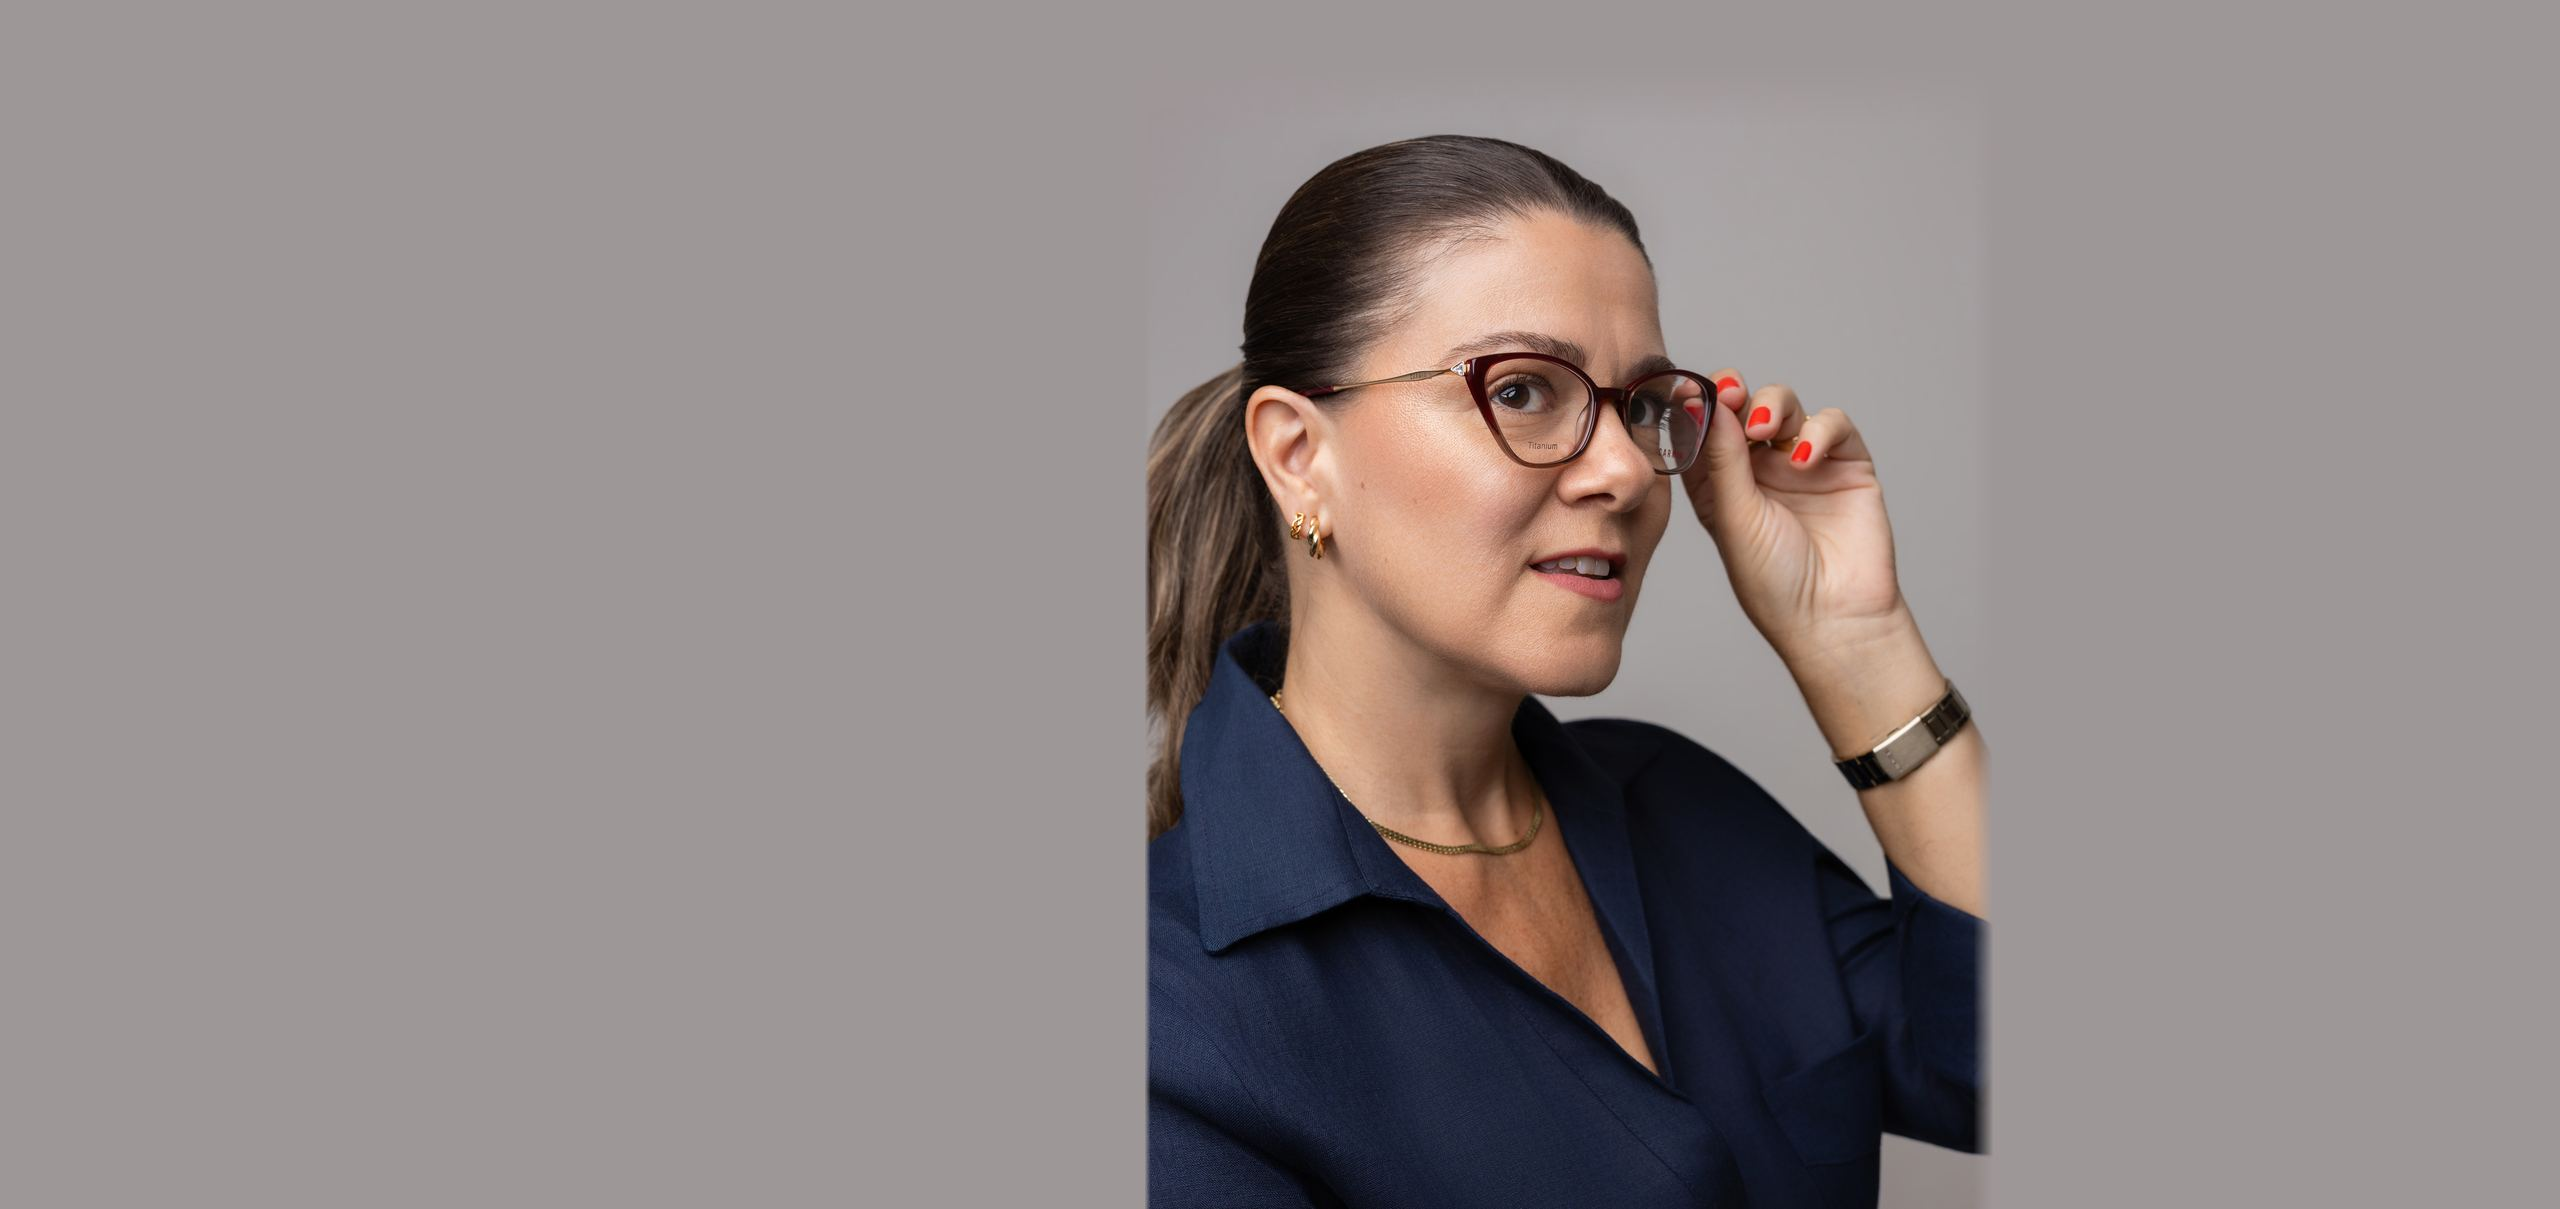
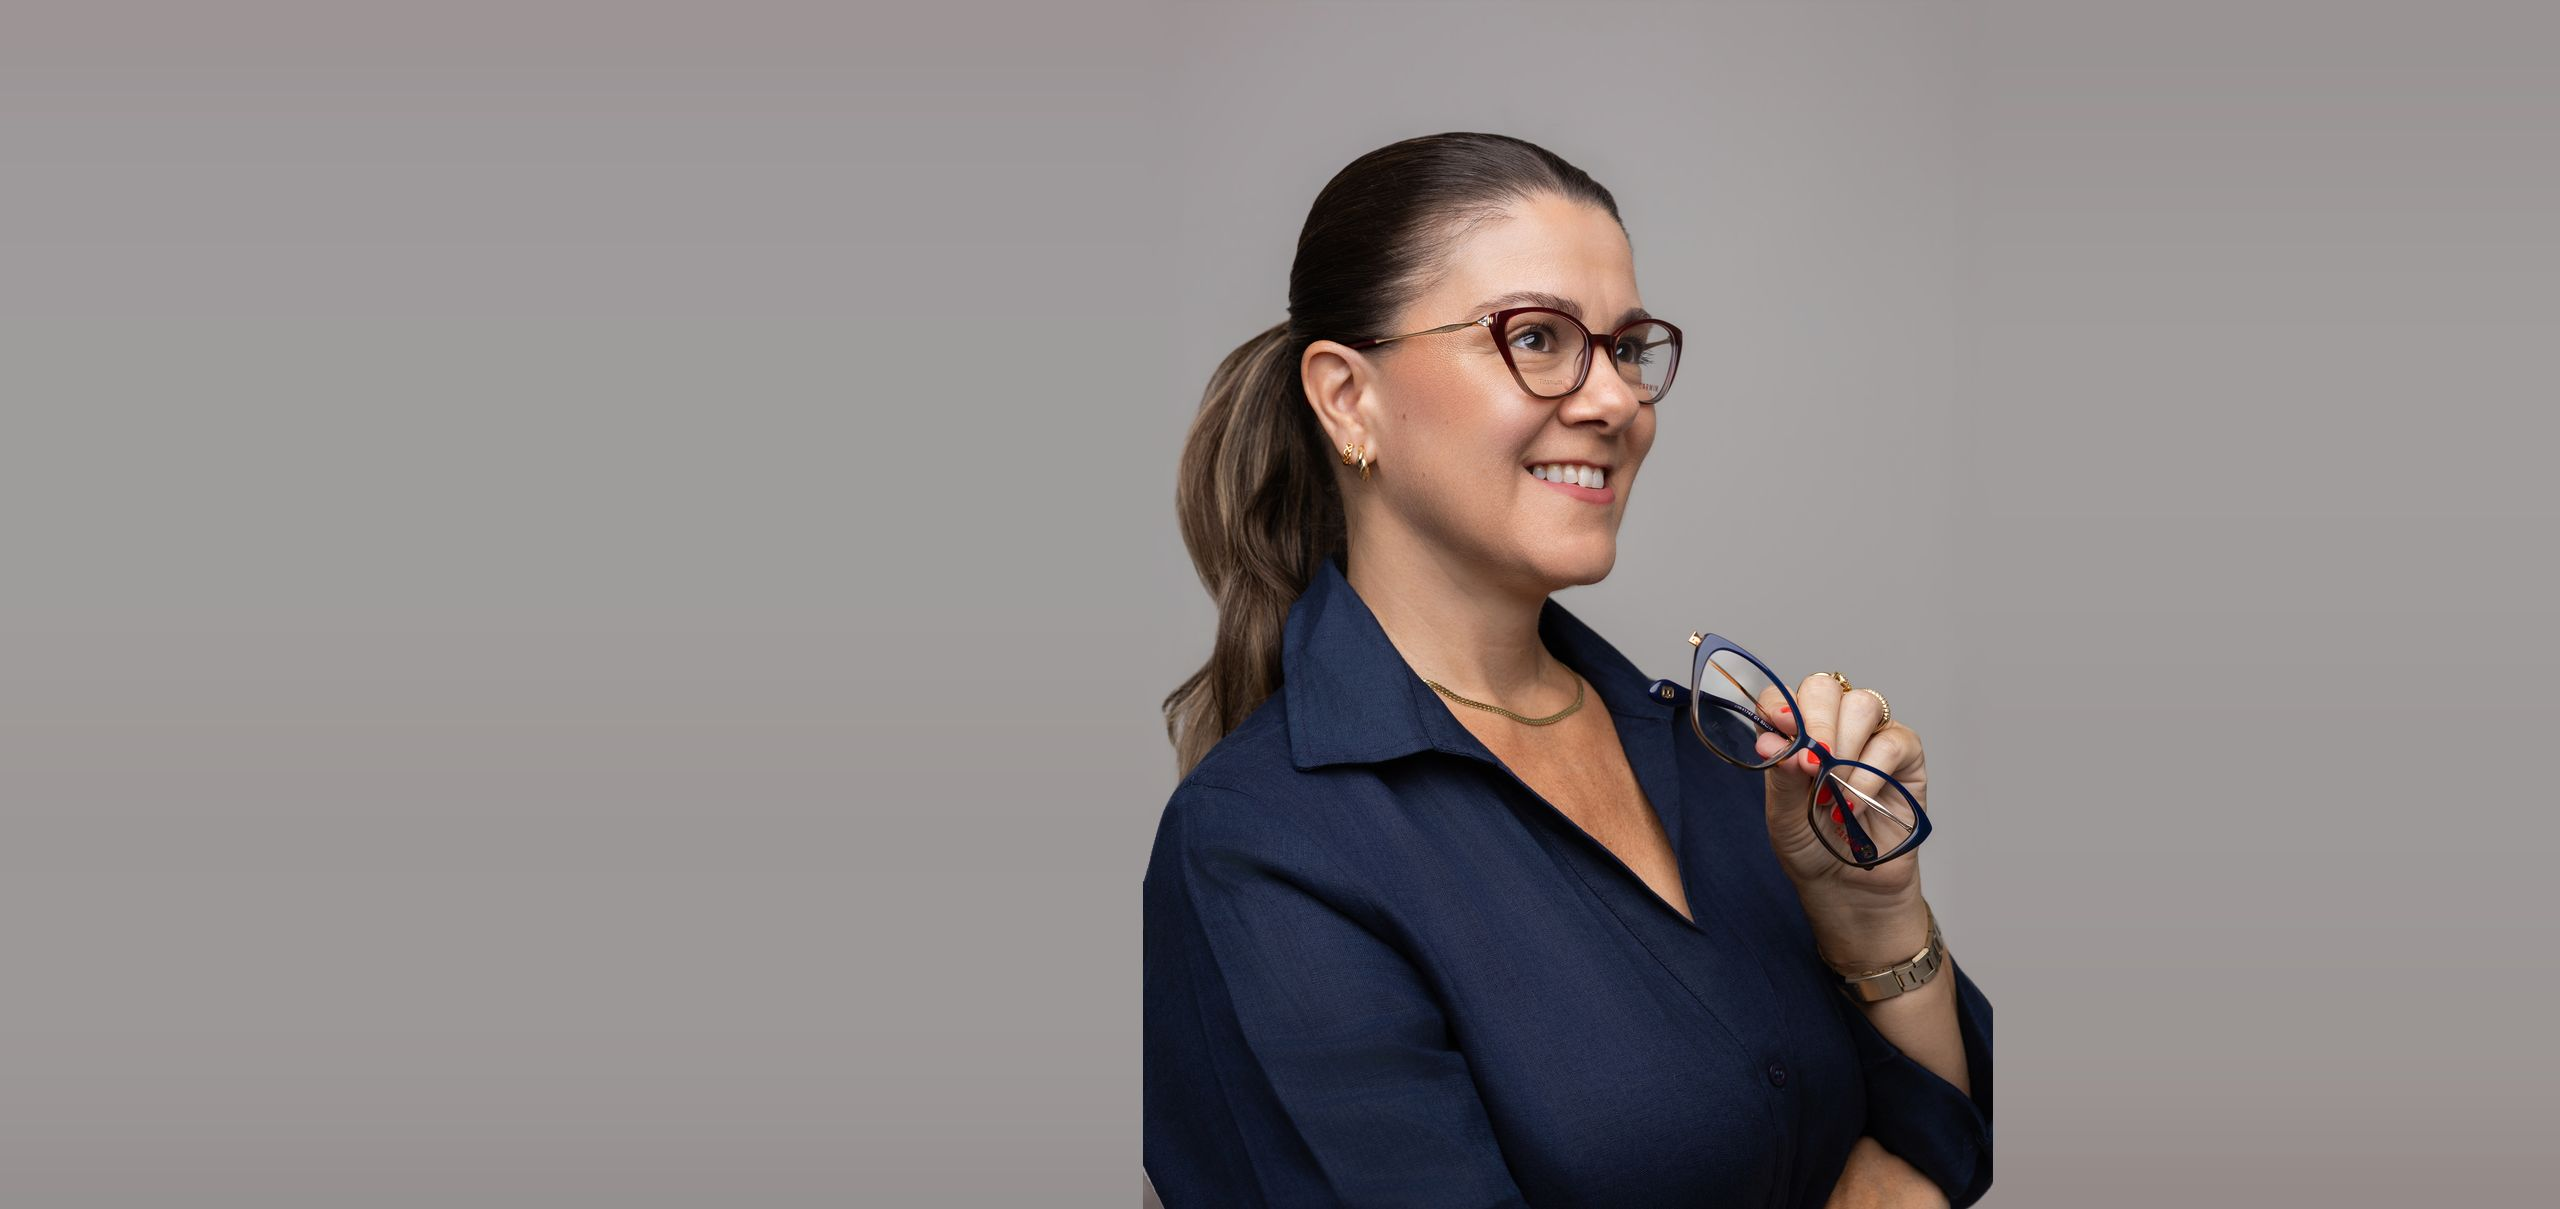
fix(frontend): troca a foto do topo da Home por uma sem corte

Changed region(s): [[0.4375, 0.0918, 0.7812, 1.0]]

diff --git a/frontend/src/componentes_site/imagensSite.ts b/frontend/src/componentes_site/imagensSite.ts
@@ -35,7 +35,7 @@ export type ImagemSite = { src?: string; descricao: string; posicao?: string };
 export const imagensSite = {
     // Início
     // os topos não têm `posicao`: o enquadramento muda entre celular e desktop e fica na className da página
-    heroInicio: { src: heroInicio, descricao: "Mulher ajustando os óculos, camisa azul" },
+    heroInicio: { src: heroInicio, descricao: "Mulher sorrindo e segurando uma armação, camisa azul" },
     estiloClassico: { src: estiloClassico, descricao: "Armação preta estilo browline sobre fundo branco", posicao: "50% 50%" },
     estiloElegante: { src: estiloElegante, descricao: "Armação tartaruga apoiada em degraus brancos", posicao: "50% 45%" },
     estiloCriativo: { src: estiloCriativo, descricao: "Armação de acetato cristal sobre fundo preto", posicao: "50% 50%" },
